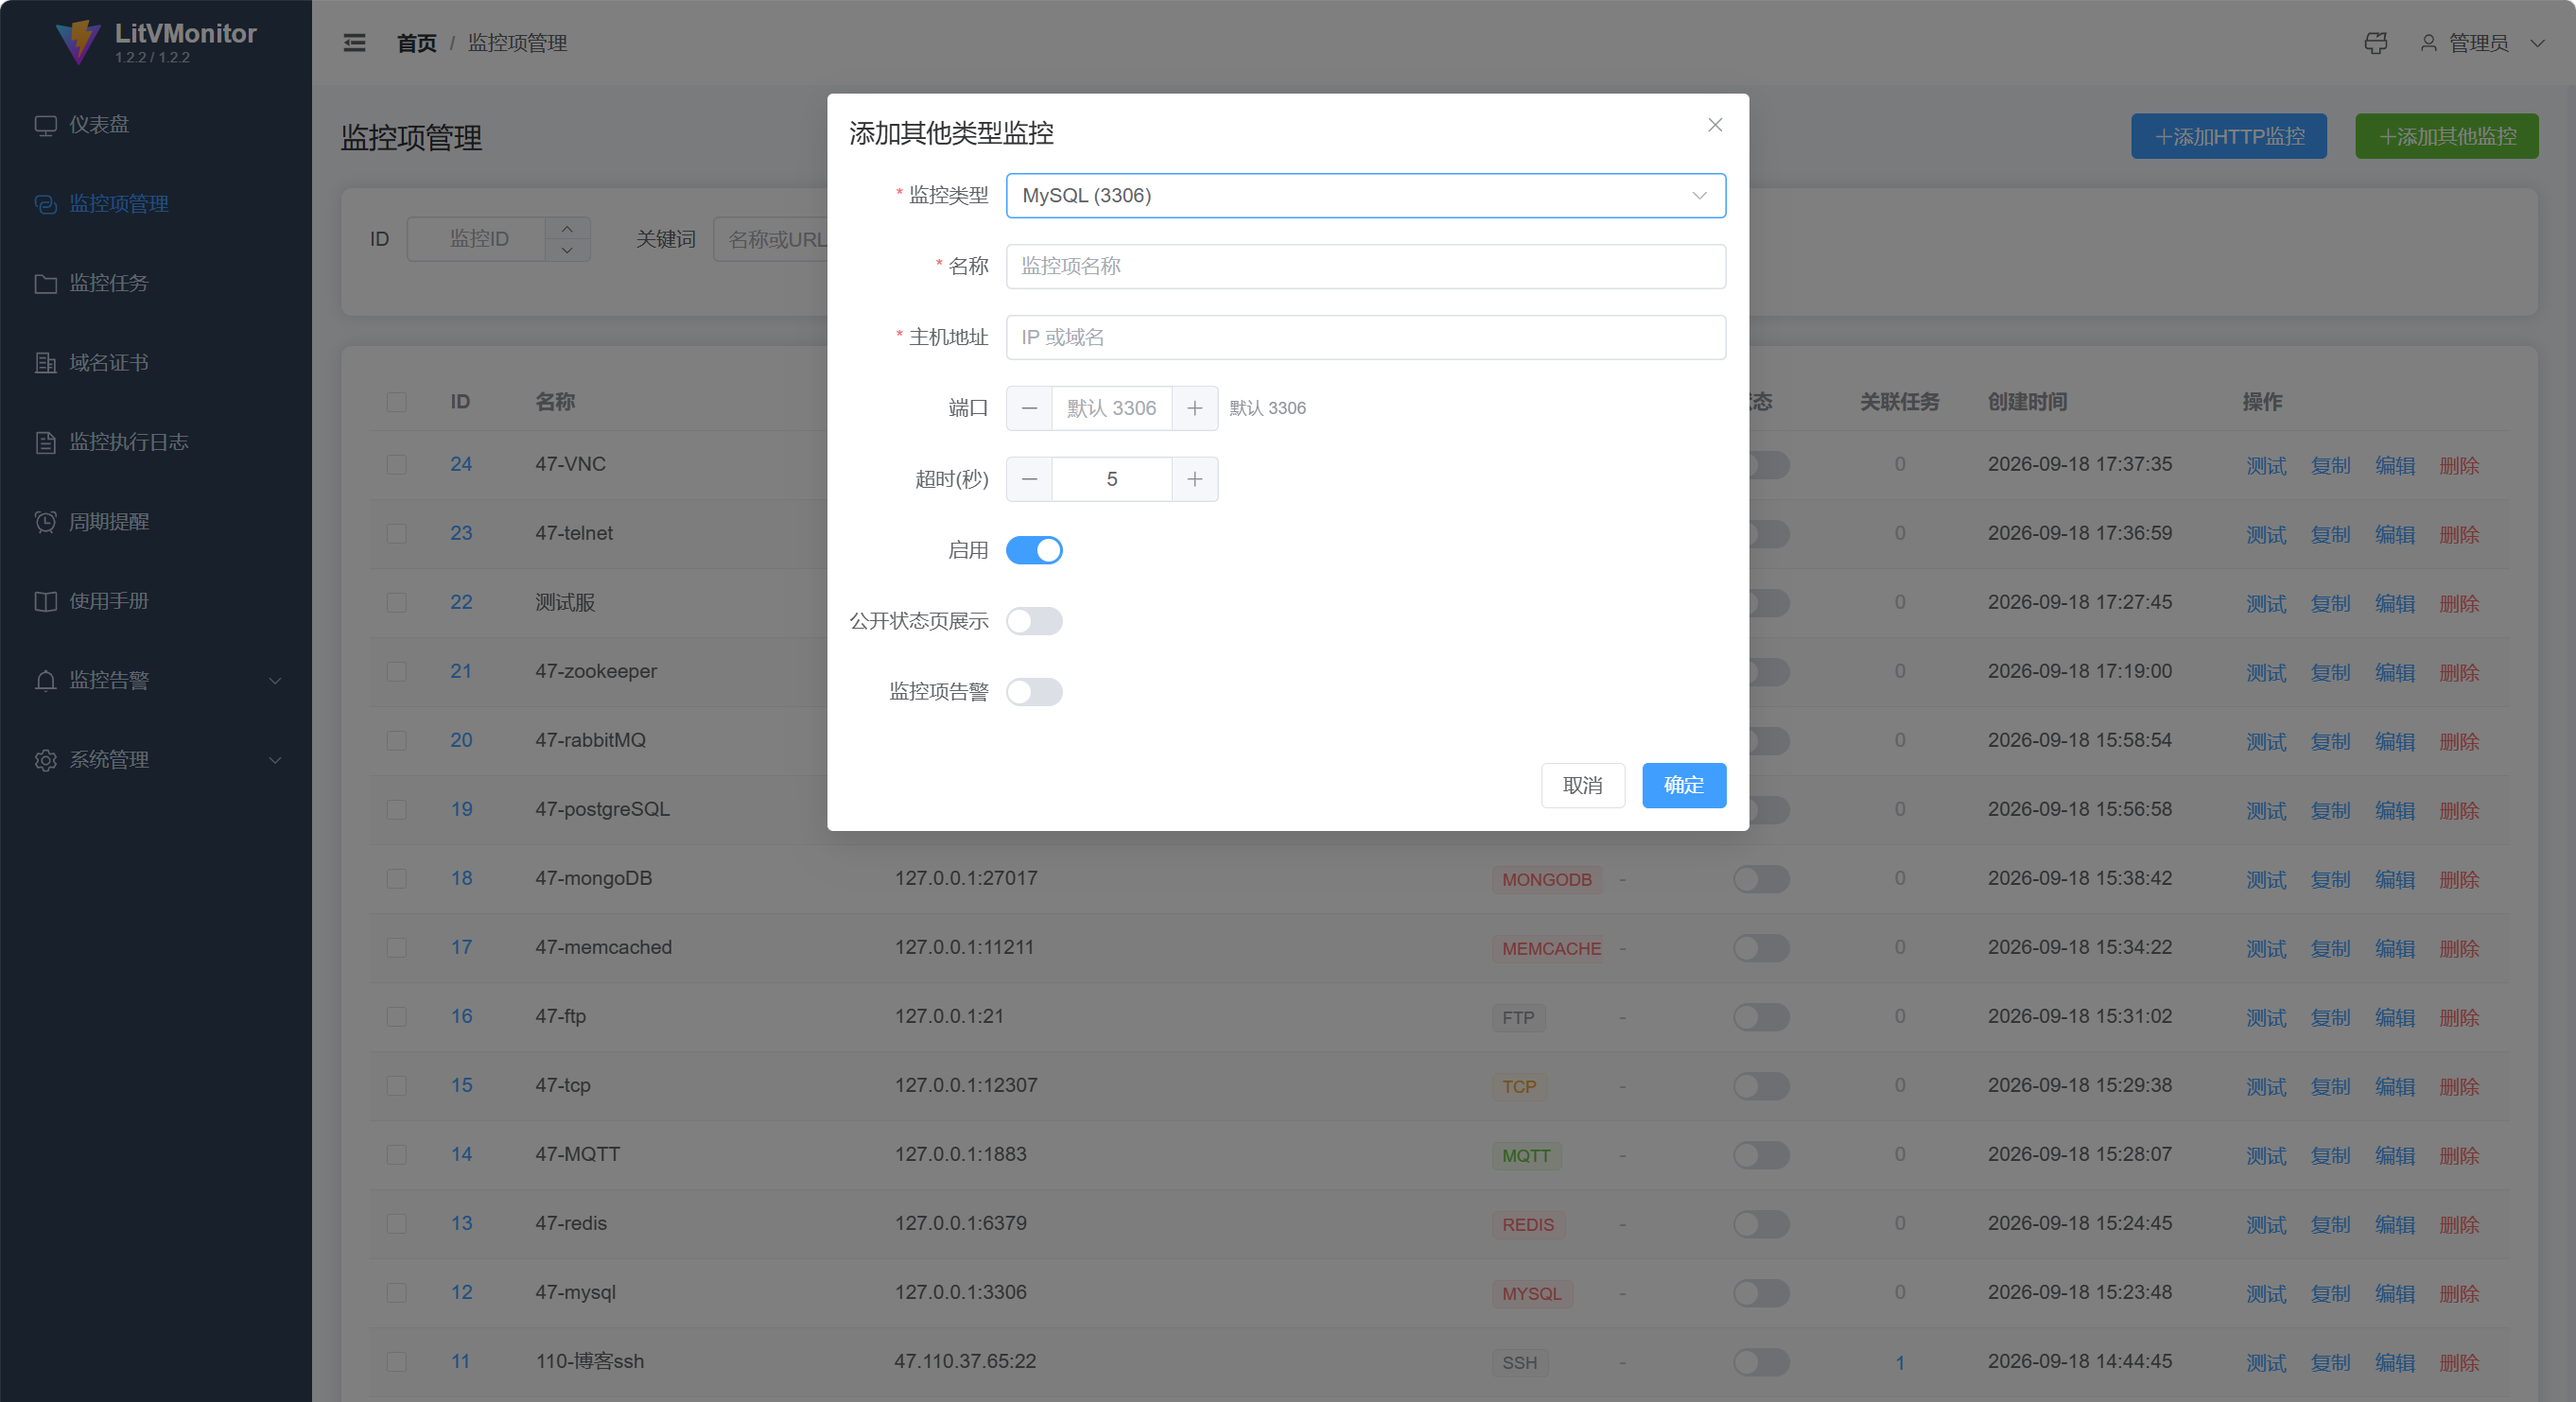
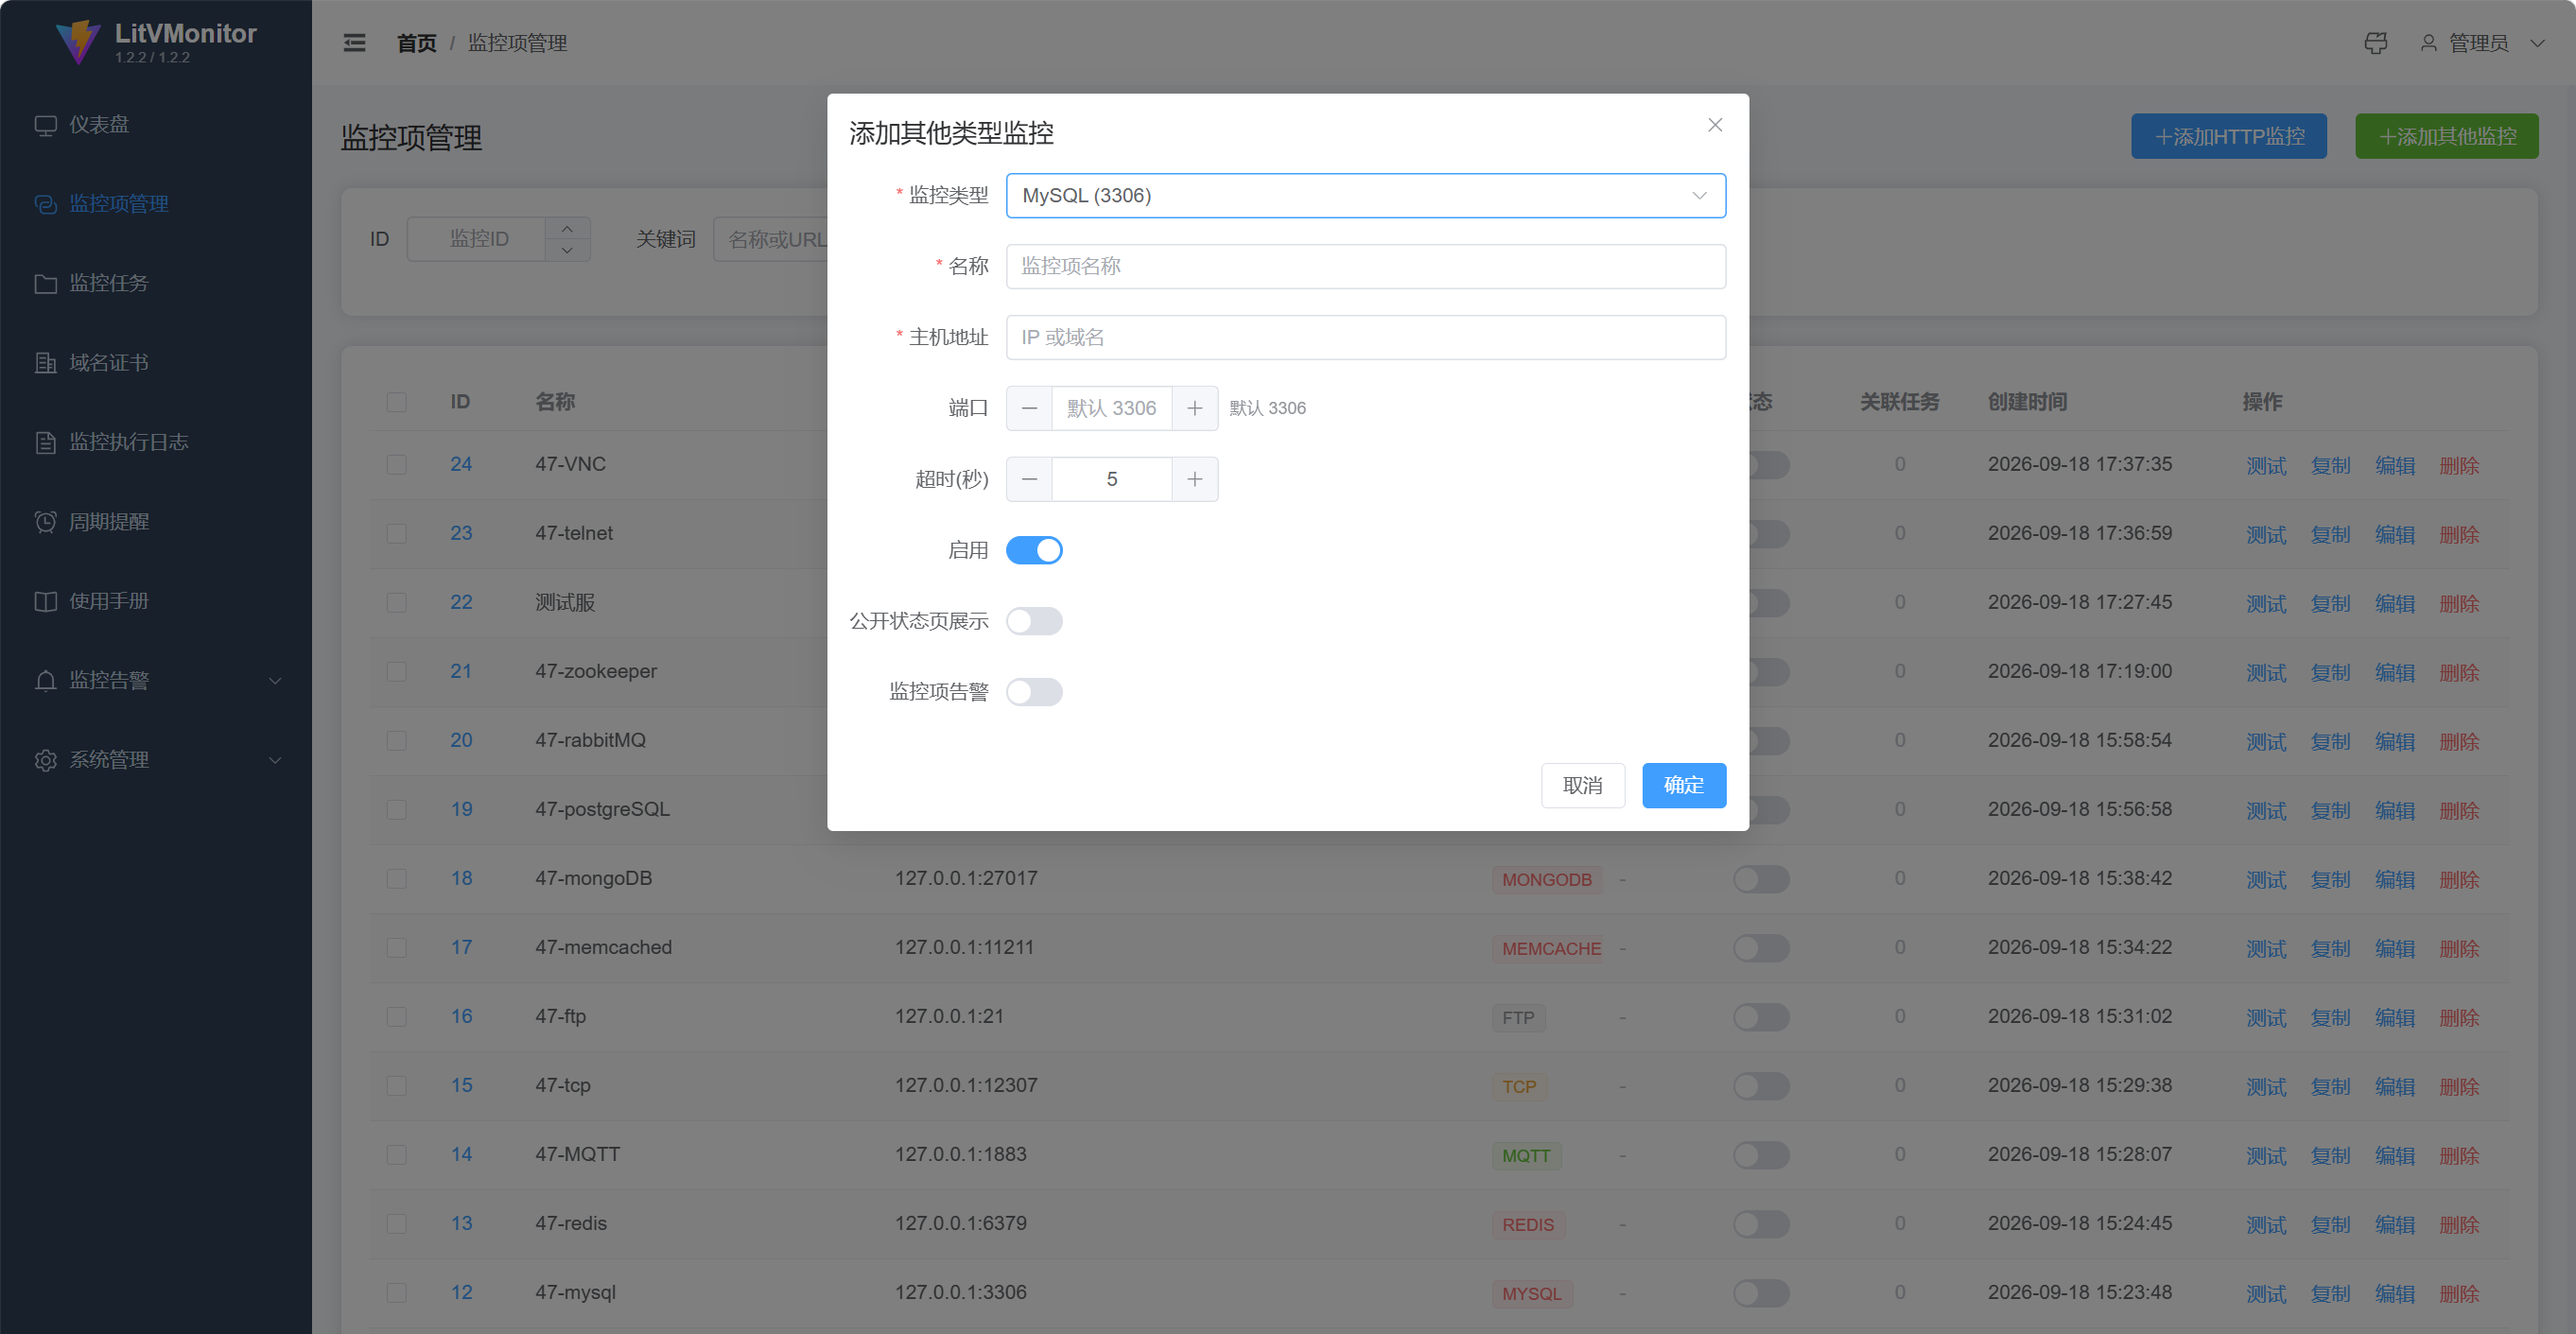
开源规范完善: 添加 CONTRIBUTING.md, LICENSE 声明, 版本徽章, 修复过期文档

diff --git a/CONTRIBUTING.md b/CONTRIBUTING.md
@@ -1,0 +1,86 @@
+# 贡献指南
+
+感谢你对 LitVMonitor 的关注！本文档将帮助你快速上手项目开发。
+
+## 环境准备
+
+| 工具 | 版本要求 | 说明 |
+|------|---------|------|
+| JDK | 17+ | 推荐 Microsoft OpenJDK 17 |
+| Maven | 3.9+ | 构建后端 |
+| Node.js | 18+ | 构建前端 |
+| npm | 9+ | 前端依赖管理 |
+
+## 项目结构
+
+```
+LitVMonitor/
+├── litv-monitor-server/          # 后端 (Spring Boot + MyBatis-Plus + SQLite)
+│   ├── src/main/java/            # Java 源码
+│   │   └── com/litv/monitor/     # 主包
+│   ├── src/main/resources/       # 配置 & 迁移脚本
+│   └── pom.xml                   # Maven 配置
+├── litv-monitor-web/             # 前端 (Vue 3 + Vite + Element Plus)
+│   ├── src/                      # 源码
+│   └── package.json              # npm 配置
+└── docs/                         # 项目文档
+```
+
+## 快速启动
+
+```bash
+# 后端
+cd litv-monitor-server
+mvn package -DskipTests
+cd litv-monitor-server   # 进入 litv-monitor-server 子目录
+java -jar target/litv-monitor-1.3.0.jar
+
+# 前端（新终端）
+cd litv-monitor-web
+npm install
+npm run dev
+```
+
+访问 http://localhost:5173，首次登录使用随机生成的管理员密码（查看启动日志）。
+
+## 开发规范
+
+### 提交规范
+
+使用 [Conventional Commits](https://www.conventionalcommits.org/) 格式：
+
+```
+feat: 新增告警渠道支持
+fix: 修复登录页深色模式样式
+docs: 更新操作手册
+refactor: 重构监控执行器
+```
+
+### 代码风格
+
+- **Java**：遵循 Google Java Style，4 空格缩进
+- **Vue/JS**：遵循项目 `.eslintrc.cjs` 和 `.prettierrc` 规则，提交前执行 `npm run lint`（如已配置）
+- **数据库**：新表需在 `src/main/resources/db/migration/` 添加迁移脚本，命名格式 `V{编号}__描述.sql`
+
+### 分支管理
+
+- `main` — 稳定分支，只接受 PR 合并
+- `feat/*` — 功能开发分支
+- `fix/*` — 修复分支
+
+## 提交 PR
+
+1. Fork 本仓库
+2. 创建功能分支：`git checkout -b feat/my-feature`
+3. 提交代码：`git commit -m "feat: xxx"`
+4. Push 到你的 Fork：`git push origin feat/my-feature`
+5. 发起 Pull Request，说明改动内容
+
+## 问题反馈
+
+- 通过 [GitHub Issues](https://github.com/joolan/LitVMonitor/issues) 提交 Bug 或功能建议
+- 提交 Issue 时请包含：复现步骤、期望行为、实际行为、运行环境
+
+## 协议
+
+本项目采用 [MIT License](LICENSE) 开源协议。

diff --git a/docs/operation.md b/docs/operation.md
@@ -49,8 +49,7 @@ server:
     context-path: /api
 
 app:
-  version: 1.2.1
-  frontend-version: 1.2.1
+  version: 1.3.0
 
 spring:
   datasource:
@@ -558,7 +557,7 @@ API Schema
 ### 布局
 
 `MainLayout.vue` 提供统一布局：
-- **侧边栏**：主题色（随换肤变化），可折叠，图标 + 文字菜单；Logo 下方显示版本号（如 `1.2.1 / 1.2.1`）
+- **侧边栏**：主题色（随换肤变化），可折叠，图标 + 文字菜单；Logo 下方显示版本号（如 `1.3.0 / 1.3.0`）
 - **顶栏**：折叠按钮 + 面包屑 + 换肤入口（用户信息左侧）+ 用户下拉菜单（登出）
 - **换肤**：画笔图标弹出 6 套主题（默认/深色/翠绿/极光紫/中国红/活力橙），选择持久化到 `localStorage`
 - **告警菜单**：使用 `el-sub-menu` 分组，包含"告警模板"、"告警渠道"、"告警记录"、"告警静默"

diff --git a/docs/architecture.md b/docs/architecture.md
@@ -36,7 +36,7 @@ LitVMonitor/
 │   │   ├── components/            # 可复用组件
 │   │   │   ├── JsonSchemaEditor.vue   # JSON Schema 可视化编辑器（双模式 + 拖拽排序）
 │   │   │   └── SchemaFieldRow.vue     # Schema 字段行（递归、折叠、必填标记）
-│   │   └── views/                 # 20 个页面视图
+│   │   └── views/                 # 22 个页面视图
 │   └── vite.config.js             # Vite 配置 + API 代理
 │
 ├── README.md

diff --git a/README.md b/README.md
@@ -1,6 +1,7 @@
 # LitVMonitor
 
 [![License: MIT](https://img.shields.io/badge/License-MIT-blue.svg)](LICENSE)
+[![Version](https://img.shields.io/badge/version-1.3.0-green.svg)]()
 
 > 当前版本：**v1.3.0**
 
